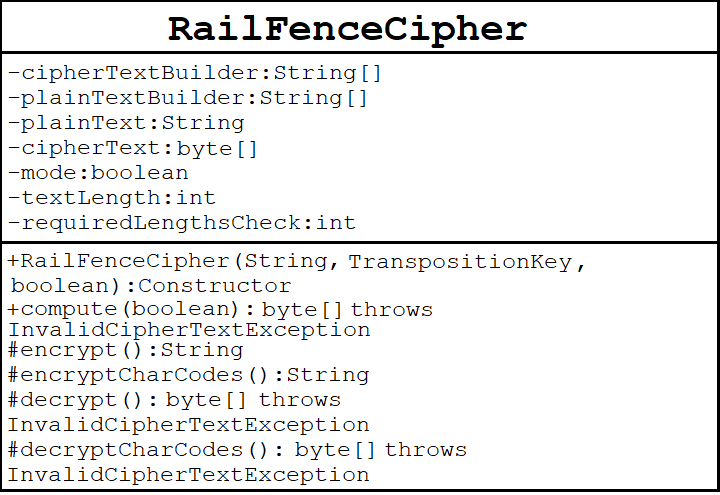
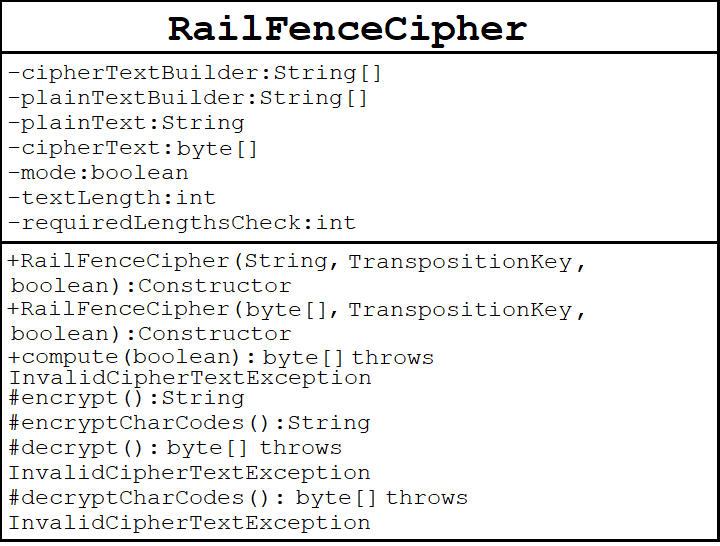
Updated a diagram.

Changed region(s): [[0.0, 0.0, 1.0, 1.0]]

diff --git a/Encryptor Decryptor File Encryption/src/Encryptor Decryptor File Ecryption/CipherPackage/TranspositionCipher.java b/Encryptor Decryptor File Encryption/src/Encryptor Decryptor File Ecryption/CipherPackage/TranspositionCipher.java
@@ -27,7 +27,7 @@ public abstract class TranspositionCipher
 		key = null;
 	}
 	
-	public abstract String compute(boolean resultType) throws Exception;
+	public abstract byte[] compute(boolean resultType) throws Exception;
 	
 	protected void setKey(TranspositionKey key)
 	{
@@ -48,7 +48,7 @@ public abstract class TranspositionCipher
 	
 	protected abstract String encryptCharCodes();
 	
-	protected abstract String decrypt() throws Exception;
+	protected abstract byte[] decrypt() throws Exception;
 	
-	protected abstract String decryptCharCodes() throws Exception;
+	protected abstract byte[] decryptCharCodes() throws Exception;
 }
